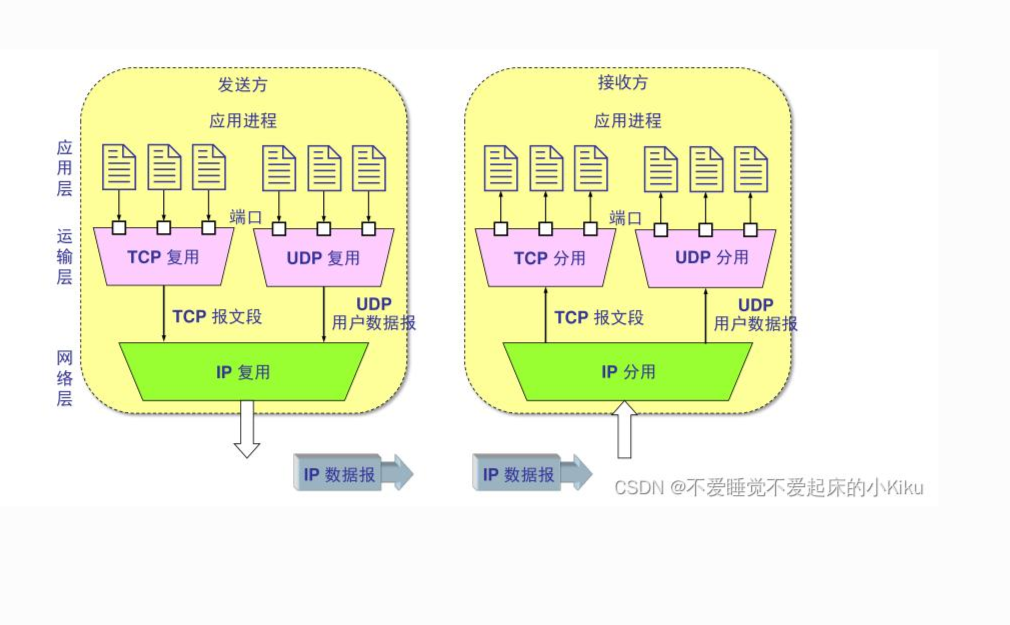
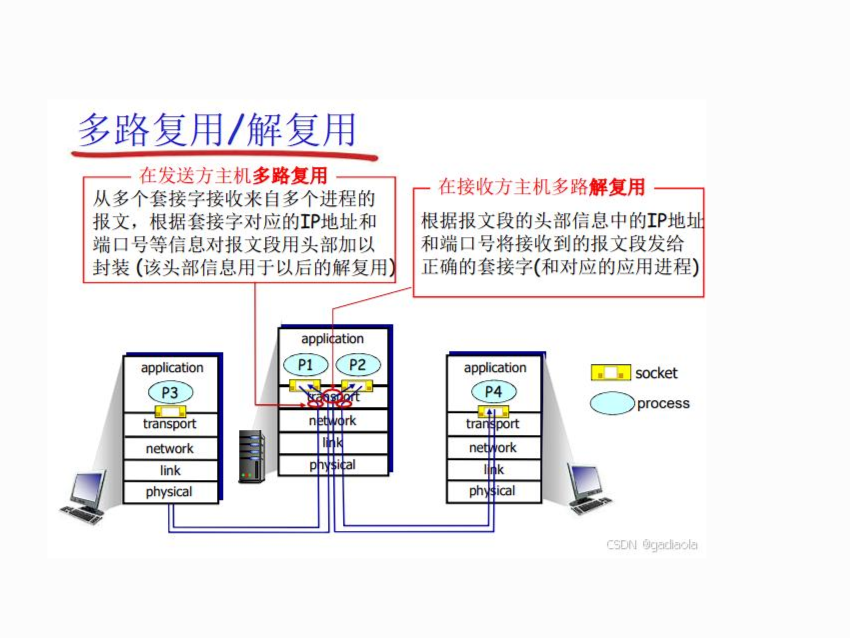
docs: 第3章3.2复用分用背诵版、教材三主机配图与读图专节
补齐 UDP/TCP 分用对比与 30 字速记，更新复用解复用教材图并修复章级断链引用。

diff --git a/03_transport_layer/3.2_multiplexing_demultiplexing/study.md b/03_transport_layer/3.2_multiplexing_demultiplexing/study.md
@@ -1,18 +1,139 @@
 # 3.2 复用与分用
 
-> 章级精读：[../study.md#ch3-2](../study.md#ch3-2)
+> 章级精读：[../study.md#ch3-2](../study.md#ch3-2) · 总览图：[3.1 配图](../assets/transport_multiplexing_demultiplexing.png) · 深化：[章级 §3.2 UDP/TCP 分用](../study.md#ch3-2-udp-tcp)
 
 ## 本节核心目标
 
-弄懂多应用同时上网怎么互不干扰。
+弄懂：**一台主机上多个应用同时上网，数据如何互不干扰、准确送到各自程序**。
 
-## 核心知识点
+---
 
-1. **复用**：发送端多个应用数据，统一交给网络层
-2. **分用**：接收端根据端口号，把数据交给对应程序
-3. 源端口 + 目的端口，实现进程精准区分
-4. UDP、TCP 分用实现差异
+## 一、复用（Multiplexing）—— 发送端
 
-## 个人总结
+**定义**：发送端把**多个应用进程的数据**交给运输层（TCP/UDP），封装成报文段，再交给网络层（IP）。
 
-端口号 + 分用机制，让一台主机可以同时跑成千上万个网络应用。
+| 步骤 | 动作 |
+|------|------|
+| 1 | 浏览器、微信、视频等 → 各自产生数据 |
+| 2 | 运输层加首部：**源端口、目的端口** 等 |
+| 3 | 形成 TCP 段 / UDP 用户数据报 → **IP 复用** 发出 |
+
+一句话：**多进一** —— 多个应用共用一条网络路径。
+
+![多路复用/解复用：三主机、套接字与五层协议栈](../assets/transport_multiplexing_demultiplexing.png)
+
+<a id="ch3-2-diagram"></a>
+
+### 读图（教材 §3.2）
+
+| 图例 | 含义 |
+|------|------|
+| 浅蓝椭圆 **P1～P4** | 应用**进程** |
+| 黄色矩形 | **套接字**（应用 ↔ 运输层接口） |
+| 堆叠方框 | 五层：**应用 → 运输 → 网络 → 链路 → 物理** |
+
+| 主机 | 角色 |
+|------|------|
+| **主机 1**（左） | 进程 **P3** → 经套接字、协议栈 → 网络 → **主机 2** |
+| **主机 3**（右） | 进程 **P4** → 同上 → **主机 2** |
+| **主机 2**（中） | 同时跑 **P1、P2**；演示**复用 + 解复用** |
+
+| 红框文字 | 对应背诵 |
+|----------|----------|
+| **发送方多路复用** | 多 socket 来的报文 → 运输层加首部（**IP、端口**等）→ **多进一** 交给网络层 |
+| **接收方多路解复用** | 运输层按首部 **IP、端口** → **一进多** 投递到正确 socket → 对应进程 |
+
+→ 与 [3.1 概述](../3.1_transport_service_intro/study.md#ch3-1-exam) 衔接
+
+---
+
+## 二、分用（Demultiplexing）—— 接收端
+
+**定义**：收到 IP 包后，运输层根据**端口号**（及协议）把数据交给对应应用进程。
+
+| 步骤 | 动作 |
+|------|------|
+| 1 | 网络层交付 → 剥 IP 头 → 运输层 |
+| 2 | 查**目的端口号**（TCP 还要匹配连接） |
+| 3 | 交给绑定该端口的进程 |
+
+| 目的端口 | 常见应用 |
+|----------|----------|
+| **80** | HTTP |
+| **443** | HTTPS |
+| **53** | DNS |
+| **22** | SSH |
+
+一句话：**一进多** —— 一份网络数据，分到正确程序。
+
+---
+
+## 三、端口号：进程的「门牌号」
+
+- **端口号**：**16 位**（0～65535），标识主机内**应用进程**
+- **Socket（套接字）** = **IP + 端口** → 通信端点
+- **源端口**：标识**发送**进程；**目的端口**：标识**接收**进程  
+- **四元组**（TCP）：`源IP, 源端口, 目的IP, 目的端口` → 唯一标识一条连接
+
+一句话：**IP 找电脑，端口找程序。**
+
+| 端口范围（了解） | 用途 |
+|------------------|------|
+| 0～1023 | 周知端口（HTTP 80 等） |
+| 49152～65535 | 客户端常分配的**临时源端口** |
+
+---
+
+## 四、UDP 与 TCP 分用（必考）
+
+### UDP 分用（无连接）
+
+- **依据**：主要看 **目的端口号**（套接字常绑 **目的 IP + 目的端口**）
+- **特点**：
+  - 一个端口通常 **bind 一个进程**
+  - **不同源 IP/源端口**，只要**目的端口相同** → 同一 UDP 套接字接收
+  - 无连接、无状态、简单
+
+### TCP 分用（面向连接）
+
+- **依据**：**四元组**全匹配
+- **特点**：
+  - 服务器 **80/443** 可**同时**服务海量客户端（每连接四元组不同）
+  - 内核用四元组区分连接 → 交给对应套接字
+  - `listen` 端口 vs `accept` 后的**连接套接字**（一对多）
+
+### 对比表（背诵）
+
+| 特性 | **UDP 分用** | **TCP 分用** |
+|------|--------------|--------------|
+| 连接 | 无连接 | 面向连接 |
+| 分用依据 | **目的端口**（+ 目的 IP） | **四元组** |
+| 端口与进程 | 常 **一对一** 绑定 | **一对多**（一端口多连接） |
+| 复杂度 | 简单 | 复杂 |
+
+**易错**：TCP **不能**只看目的端口；必须四元组都匹配。
+
+→ 章级详图与套接字 API：[§3.2](../study.md#ch3-2-compare)
+
+---
+
+<a id="ch3-2-exam"></a>
+
+## 五、考试 / 面试速记
+
+| 点 | 口诀 |
+|----|------|
+| 复用 | 发端 **多进一** |
+| 分用 | 收端 **一进多** |
+| UDP | **目的端口** |
+| TCP | **四元组** |
+
+### 30 字终极版
+
+**复用多进一分用一进多；UDP看目的端口，TCP看四元组；端口定进程。**
+
+---
+
+## 个人总结（直接背）
+
+**端口号 + 分用机制，让一台主机可以同时跑成千上万个网络应用。**

diff --git a/03_transport_layer/3.2_multiplexing_demultiplexing/README.md b/03_transport_layer/3.2_multiplexing_demultiplexing/README.md
@@ -2,23 +2,23 @@
 
 ## 知识点速记
 
-- **复用**：多进程 → 封装端口 → 一条 IP；**分用**：一条 IP → 按端口分到进程。
-- **UDP**：目的端口分用；**TCP**：**四元组**；80 端口 TCP 可多连接、UDP 通常单绑。
-- **端口**：0–1023 周知 / 1024–49151 注册 / 49152–65535 动态。
-- **速背+易错**：[§3.2 六](../study.md#ch3-2-exam) · 图：[总览](../assets/mux_demux_overview.png) · [UDP](../assets/udp_demux.png) · [TCP](../assets/tcp_mux_4tuple.png)
+- **复用/分用**：多进一 / 一进多 · [教材图+读图](./study.md#ch3-2-diagram)
+- **UDP**：**目的端口**分用
+- **TCP**：**四元组**；80 端口可多连接
+- **背诵**：[30 字](./study.md#ch3-2-exam) · 章级：[§3.2 详](../study.md#ch3-2-compare)
 
 ## 与后端开发的联系
 
-- 同一机器多服务靠**不同端口**；连接风暴、端口耗尽、`TIME_WAIT` 占满本地端口，都与四元组与状态机相关。
+- 多服务靠不同端口；`TIME_WAIT`、端口耗尽与四元组相关
 
 ## 延伸阅读
 
-- 章级精读：[study.md § 3.2](../study.md#ch3-2)
+- [study.md](./study.md) · [3.1](../3.1_transport_service_intro/study.md)
 
 ## 本目录文件说明
 
 | 文件 | 用途 |
 |------|------|
-| `README.md` | 小节速记（你正在看的） |
-| `study.md` | 个人小节笔记 |
+| `README.md` | 小节速记 |
+| `study.md` | 可背诵完整版 |
 | `demo_code/` | 示例代码 |

diff --git a/03_transport_layer/3.1_transport_service_intro/study.md b/03_transport_layer/3.1_transport_service_intro/study.md
@@ -24,14 +24,16 @@
 
 ## 二、复用与分用（必考）
 
-![发送方复用、接收方分用：TCP/UDP → IP 数据报](../assets/transport_multiplexing_demultiplexing.png)
+![多路复用/解复用（教材三主机图）](../assets/transport_multiplexing_demultiplexing.png)
 
 ### 读图
 
-| 侧 | 过程 | 图中标签 |
+| 侧 | 过程 | 图中对应 |
 |----|------|----------|
-| **发送** | 多应用 → **端口** → TCP/UDP **复用** → **IP 复用** → 一个 IP 数据报 | 发送方左侧 |
-| **接收** | IP 数据报 → **IP 分用** → TCP/UDP **分用** → **端口** → 对应应用 | 接收方右侧 |
+| **复用（发）** | P1、P2 多 socket → 运输层加首部 → **多进一** 下交网络层 | 中间主机**向上汇聚**的红框说明 |
+| **分用（收）** | 网络层上来 → 运输层按 **IP+端口** → **一进多** 到各 socket → P1/P2 | 中间主机**向下分叉**的红框说明 |
+
+详读 P1～P4、套接字图例 → [3.2 读图专节](../3.2_multiplexing_demultiplexing/study.md#ch3-2-diagram)
 
 ### 概念
 

diff --git a/03_transport_layer/README.md b/03_transport_layer/README.md
@@ -10,12 +10,12 @@
 
 | 图 | 说明 |
 |----|------|
-| [transport_multiplexing_demultiplexing.png](./assets/transport_multiplexing_demultiplexing.png) | 3.1 复用/分用 |
+| [transport_multiplexing_demultiplexing.png](./assets/transport_multiplexing_demultiplexing.png) | 3.1/3.2 多路复用·解复用（三主机 P1～P4） |
 
 ## 小节列表
 
 - [3.1 运输层概述](./3.1_transport_service_intro/study.md) — 进程到进程、复用分用图、端口、TCP/UDP、30 字背诵  
-- [3.2 复用与分用](./3.2_multiplexing_demultiplexing/study.md) — 端口号、UDP/TCP 分用  
+- [3.2 复用与分用](./3.2_multiplexing_demultiplexing/study.md) — 多进一/一进多、UDP目的端口/TCP四元组、30 字背诵  
 - [3.3 UDP](./3.3_udp_protocol/study.md) — 8 字节首部、场景  
 - [3.4 可靠传输原理](./3.4_reliable_data_transfer_principle/study.md) — ACK、停等、GBN、SR  
 - [3.5 TCP 连接与传输](./3.5_tcp_connection_and_transmission/study.md) — 握手挥手、序号重传  
